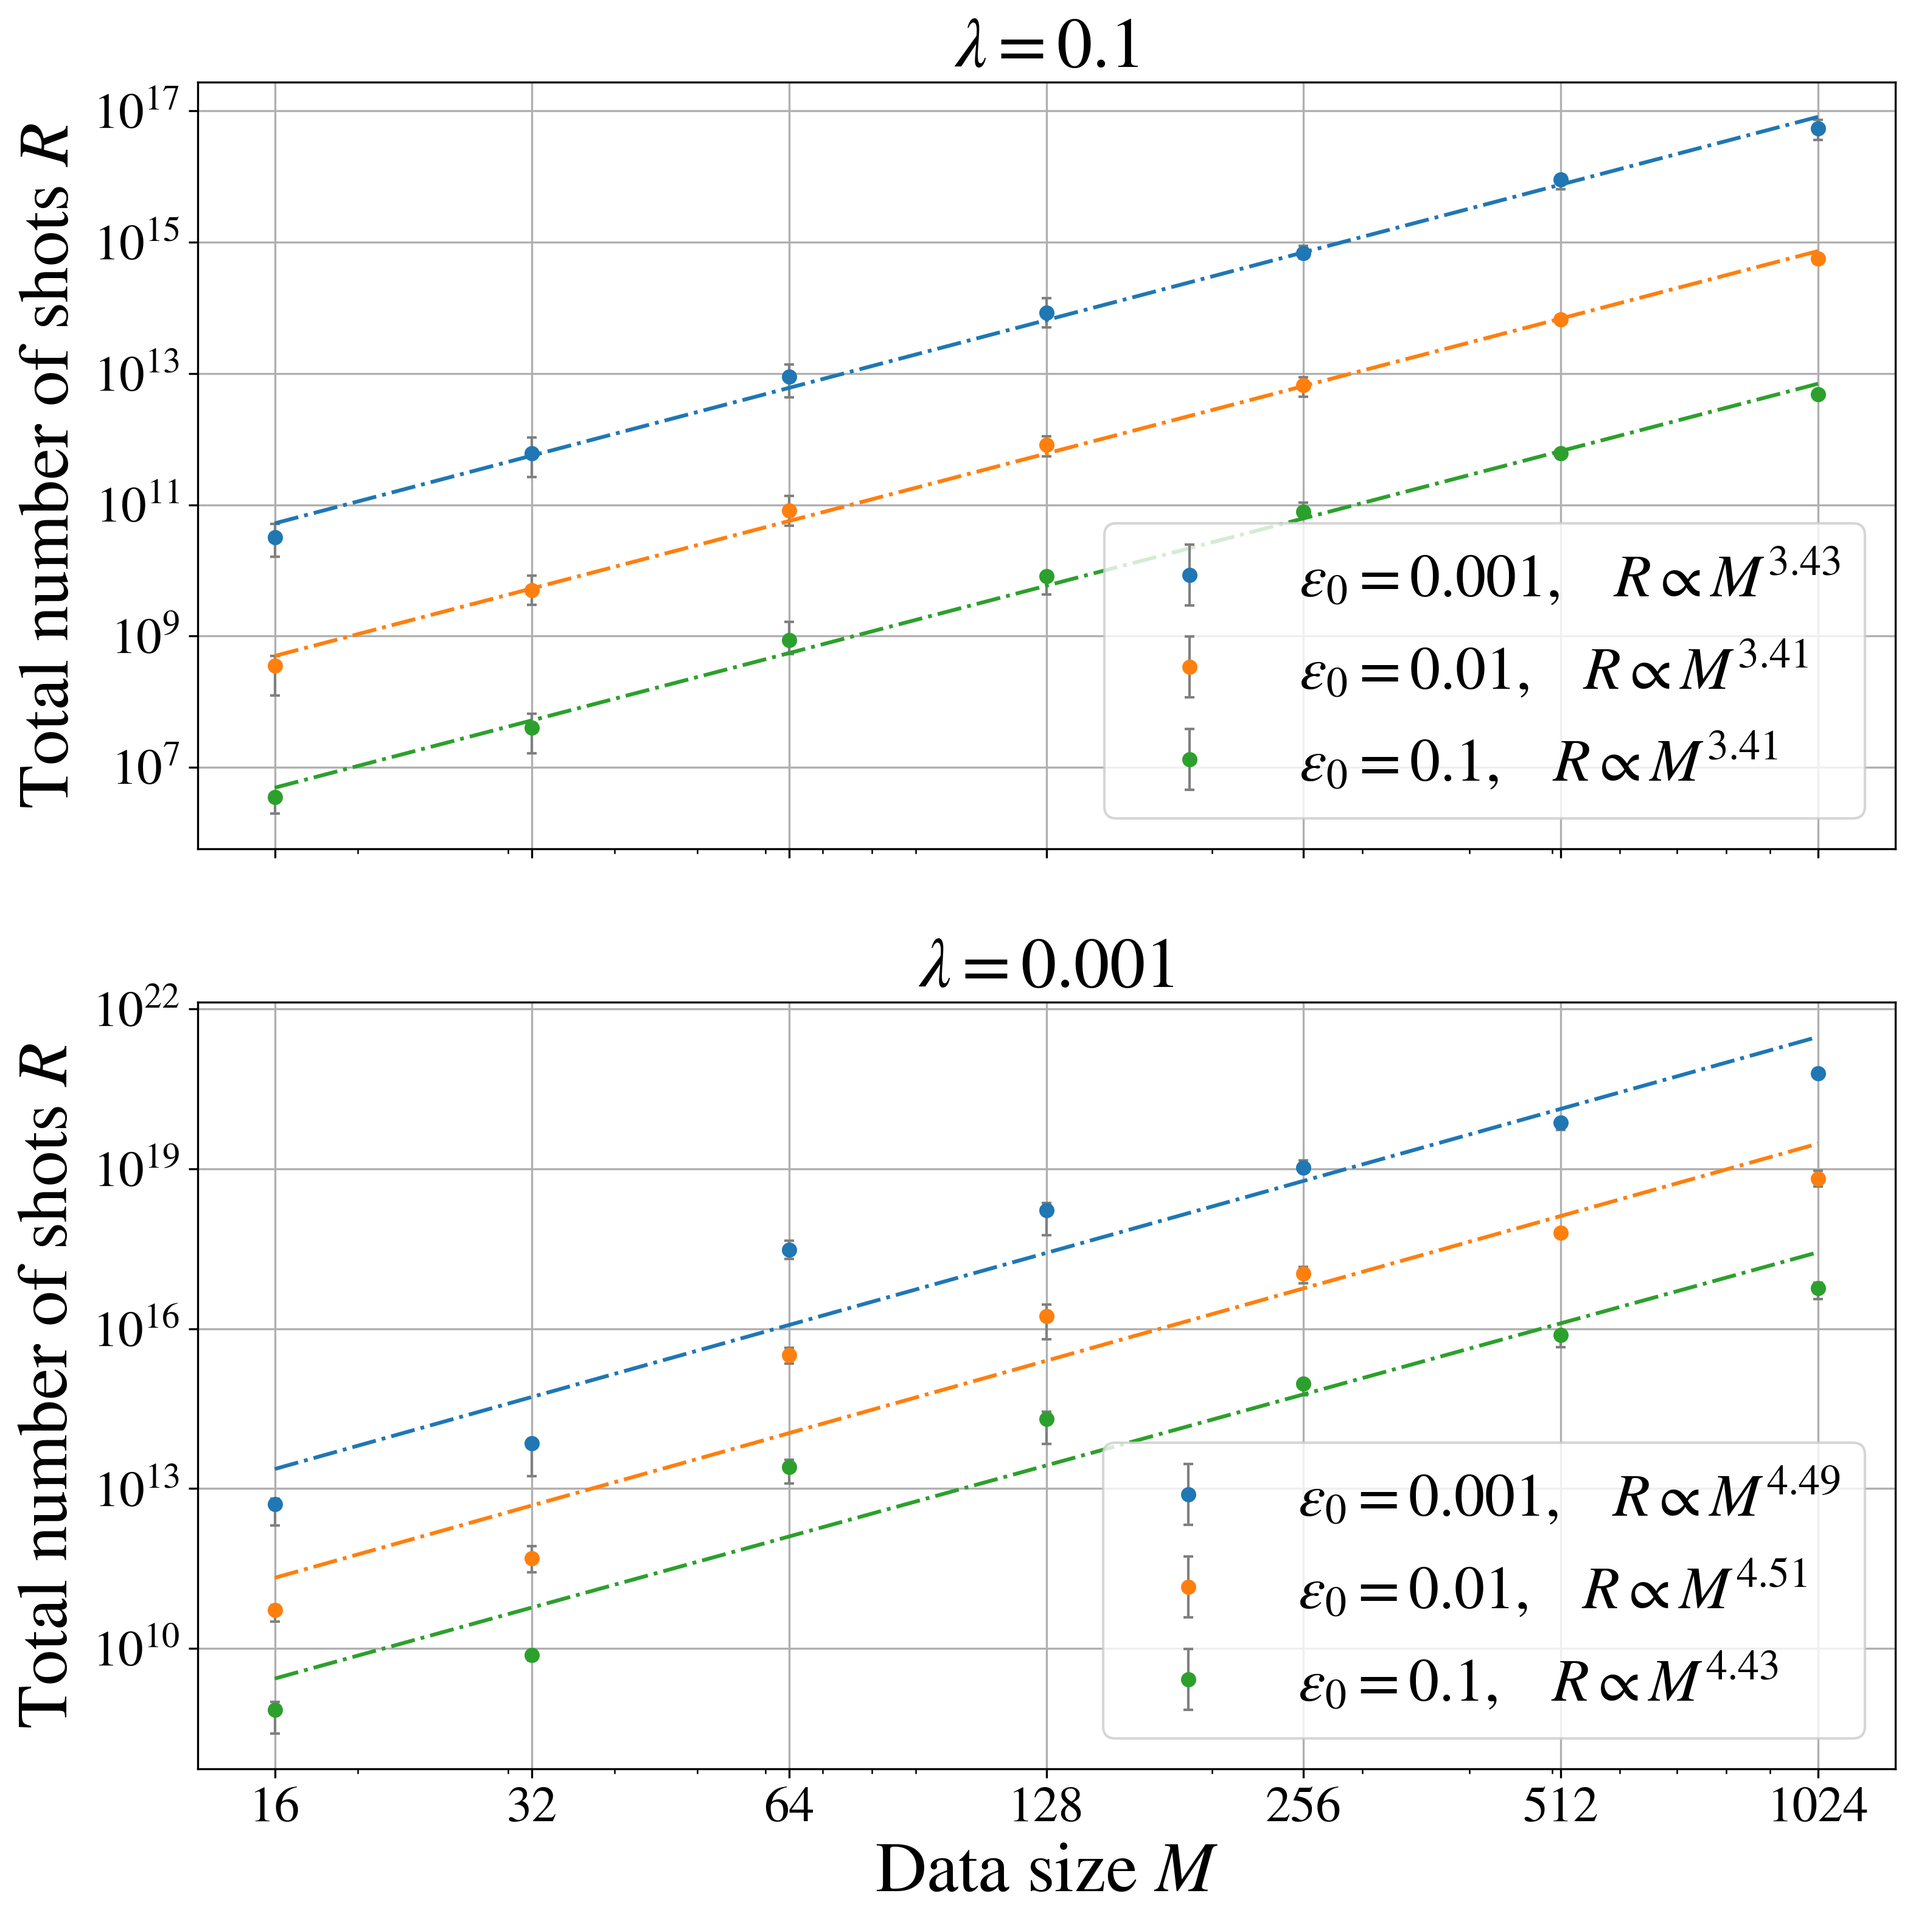
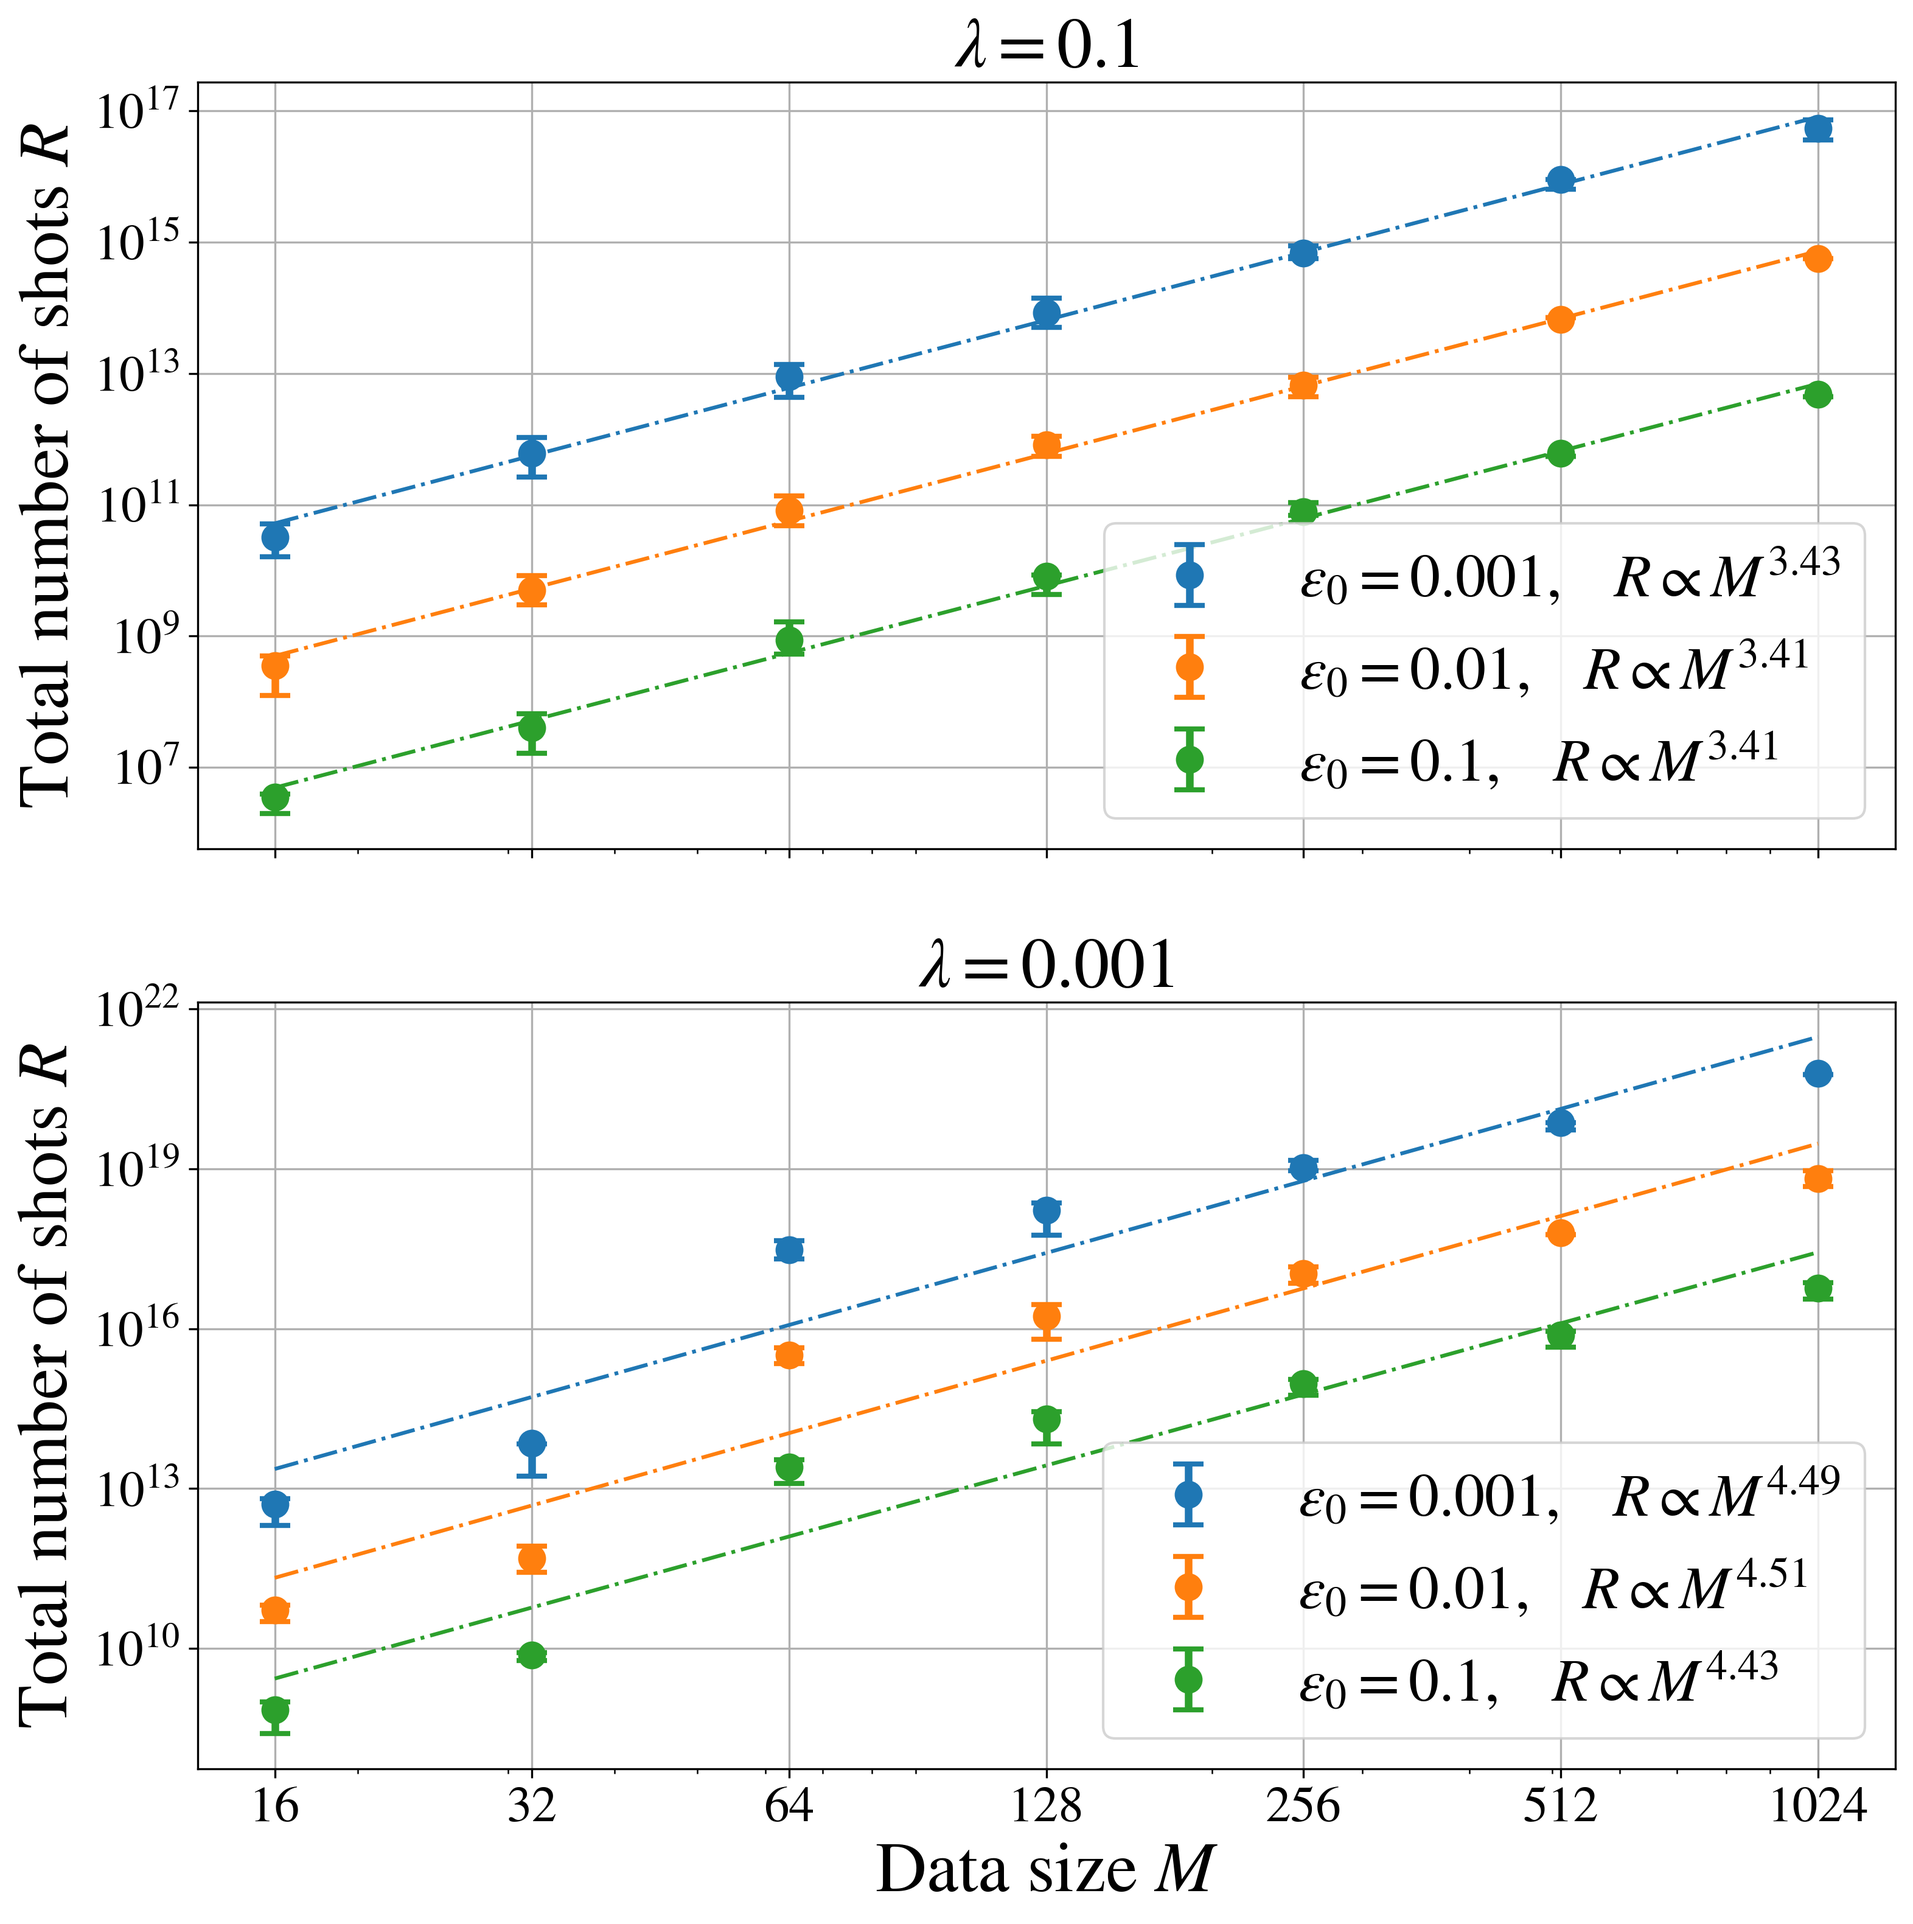
bigger markers

diff --git a/dual_qsvm/dual_binomial_experiment.py b/dual_qsvm/dual_binomial_experiment.py
@@ -139,8 +139,8 @@ class BinomialExperiment():
 
             p = np.polyfit(np.log(self.Ms), np.log(means), 1)
             exponents[i] = p[0]
-            axis.errorbar(self.Ms, means, yerr=errors, marker='.', ecolor='grey', elinewidth=1., ls='',
-            capsize=2, color=colors[i], ms=10, label = r'$\varepsilon_0 = {{%s}}, \quad R \propto M^{{%.2f}}$'%(eps, p[0]))
+            axis.errorbar(self.Ms, means, yerr=errors, marker='.', ecolor=colors[i], elinewidth=3., ls='',
+            capsize=6,capthick=2., color=colors[i], ms=20, label = r'$\varepsilon_0 = {{%s}}, \quad R \propto M^{{%.2f}}$'%(eps, p[0]))
 
             M_fine = np.geomspace(np.min(self.Ms),np.max(self.Ms))
 
